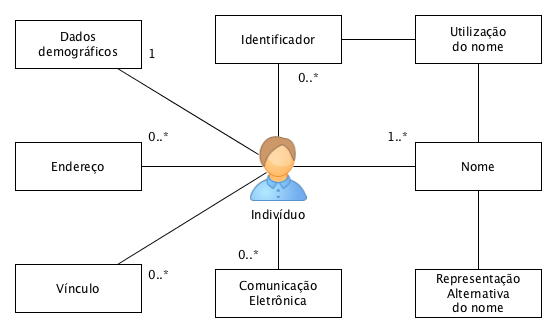
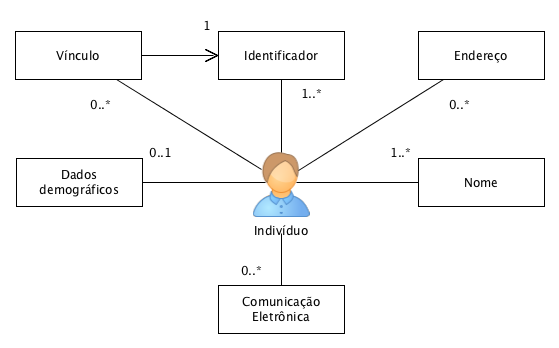
conceitual

diff --git a/docs/conceitual.html b/docs/conceitual.html
@@ -93,41 +93,39 @@ tooltip.style.display = "none";
 <div class="tooltip" id="n0">Indivíduo</div>
 <div class="tooltip" id="n1">Um paciente pode possuir vários identificadores.</div>
 <div class="tooltip" id="n2">Nome</div>
-<div class="tooltip" id="n3">Utilização<br>do nome</div>
-<div class="tooltip" id="n4">Representação<br>Alternativa<br>do nome</div>
-<div class="tooltip" id="n5">Vínculo</div>
-<div class="tooltip" id="n6">Comunicação<br>Eletrônica</div>
-<div class="tooltip" id="n7">Informações adicionais sobre um paciente. Tais dados admitem uma única instância.</div>
-<div class="tooltip" id="n8">O endereço de um paciente. Um paciente pode ter vários endereços</div>
-<div class="tooltip" id="e0">0..*</div>
+<div class="tooltip" id="n3">Vínculo</div>
+<div class="tooltip" id="n4">Comunicação<br>Eletrônica</div>
+<div class="tooltip" id="n5">Informações adicionais sobre um paciente. Tais dados admitem uma única instância.</div>
+<div class="tooltip" id="n6">O endereço de um paciente. Um paciente pode ter vários endereços</div>
+<div class="tooltip" id="e0">1..*</div>
+<div class="tooltip" id="e1">0..*</div>
 <div class="tooltip" id="e2">0..*</div>
 <div class="tooltip" id="e3">0..*</div>
-<div class="tooltip" id="e4">0..*</div>
-<div class="tooltip" id="e5">1</div>
-<div class="tooltip" id="e7">1..*</div>
+<div class="tooltip" id="e4">0..1</div>
+<div class="tooltip" id="e5">1..*</div>
+<div class="tooltip" id="e6">1</div>
 
 <map name="image1_1">
-  <area shape="poly" coords="293,171,415,171,415,161,293,161,293,171,293,171" alt="" onmouseover="showTooltip('e7')" onmouseout="hideTooltip()"/>
-  <area shape="poly" coords="261,149,119,63,114,72,256,158,261,149,261,149" alt="" onmouseover="showTooltip('e5')" onmouseout="hideTooltip()"/>
-  <area shape="poly" coords="262,161,141,161,141,171,262,171,262,161,262,161" alt="" onmouseover="showTooltip('e4')" onmouseout="hideTooltip()"/>
-  <area shape="poly" coords="263,168,114,259,119,268,269,177,263,168,263,168" alt="" onmouseover="showTooltip('e3')" onmouseout="hideTooltip()"/>
-  <area shape="poly" coords="273,217,273,269,283,269,283,217,273,217,273,217" alt="" onmouseover="showTooltip('e2')" onmouseout="hideTooltip()"/>
-  <area shape="poly" coords="283,136,283,63,273,63,273,136,283,136,283,136" alt="" onmouseover="showTooltip('e0')" onmouseout="hideTooltip()"/>
-  <area shape="rect" coords="15,142,141,190" alt="" onmouseover="showTooltip('n8')" onmouseout="hideTooltip()"/>
-  <area shape="rect" coords="15,20,141,68" alt="" onmouseover="showTooltip('n7')" onmouseout="hideTooltip()"/>
-  <area shape="rect" coords="215,269,341,317" alt="" onmouseover="showTooltip('n6')" onmouseout="hideTooltip()"/>
-  <area shape="rect" coords="15,264,141,312" alt="" onmouseover="showTooltip('n5')" onmouseout="hideTooltip()"/>
-  <area shape="rect" coords="415,269,541,317" alt="" onmouseover="showTooltip('n4')" onmouseout="hideTooltip()"/>
-  <area shape="rect" coords="415,15,541,63" alt="" onmouseover="showTooltip('n3')" onmouseout="hideTooltip()"/>
-  <area shape="rect" coords="415,142,541,190" alt="" onmouseover="showTooltip('n2')" onmouseout="hideTooltip()"/>
-  <area shape="rect" coords="215,15,341,63" alt="" onmouseover="showTooltip('n1')" onmouseout="hideTooltip()"/>
-  <area shape="rect" coords="249,131,306,200" alt="" onmouseover="showTooltip('n0')" onmouseout="hideTooltip()"/>
+  <area shape="poly" coords="141,60,213,60,213,50,141,50,141,60,141,60" alt="" onmouseover="showTooltip('e6')" onmouseout="hideTooltip()"/>
+  <area shape="poly" coords="296,187,418,187,418,177,296,177,296,187,296,187" alt="" onmouseover="showTooltip('e5')" onmouseout="hideTooltip()"/>
+  <area shape="poly" coords="265,177,142,177,142,187,265,187,265,177,265,177" alt="" onmouseover="showTooltip('e4')" onmouseout="hideTooltip()"/>
+  <area shape="poly" coords="301,175,445,83,440,74,295,166,301,175,301,175" alt="" onmouseover="showTooltip('e3')" onmouseout="hideTooltip()"/>
+  <area shape="poly" coords="264,165,119,74,113,83,258,174,264,165,264,165" alt="" onmouseover="showTooltip('e2')" onmouseout="hideTooltip()"/>
+  <area shape="poly" coords="276,233,276,285,286,285,286,233,276,233,276,233" alt="" onmouseover="showTooltip('e1')" onmouseout="hideTooltip()"/>
+  <area shape="poly" coords="286,152,286,79,276,79,276,152,286,152,286,152" alt="" onmouseover="showTooltip('e0')" onmouseout="hideTooltip()"/>
+  <area shape="rect" coords="418,31,544,79" alt="" onmouseover="showTooltip('n6')" onmouseout="hideTooltip()"/>
+  <area shape="rect" coords="16,158,142,206" alt="" onmouseover="showTooltip('n5')" onmouseout="hideTooltip()"/>
+  <area shape="rect" coords="218,285,344,333" alt="" onmouseover="showTooltip('n4')" onmouseout="hideTooltip()"/>
+  <area shape="rect" coords="15,31,141,79" alt="" onmouseover="showTooltip('n3')" onmouseout="hideTooltip()"/>
+  <area shape="rect" coords="418,158,544,206" alt="" onmouseover="showTooltip('n2')" onmouseout="hideTooltip()"/>
+  <area shape="rect" coords="218,31,344,79" alt="" onmouseover="showTooltip('n1')" onmouseout="hideTooltip()"/>
+  <area shape="rect" coords="252,147,309,216" alt="" onmouseover="showTooltip('n0')" onmouseout="hideTooltip()"/>
 </map>
 
 
     <table class="yimagetable" cellspacing="0" cellpadding="0" border="0">
       <tr>
-        <td><img class="yimage" src="imagens/conceitual.png" usemap="#image1_1" border="0" alt=""/></td>
+        <td><img class="yimage" src="conceitual1_1.png" usemap="#image1_1" border="0" alt=""/></td>
       </tr>
     </table>
 
